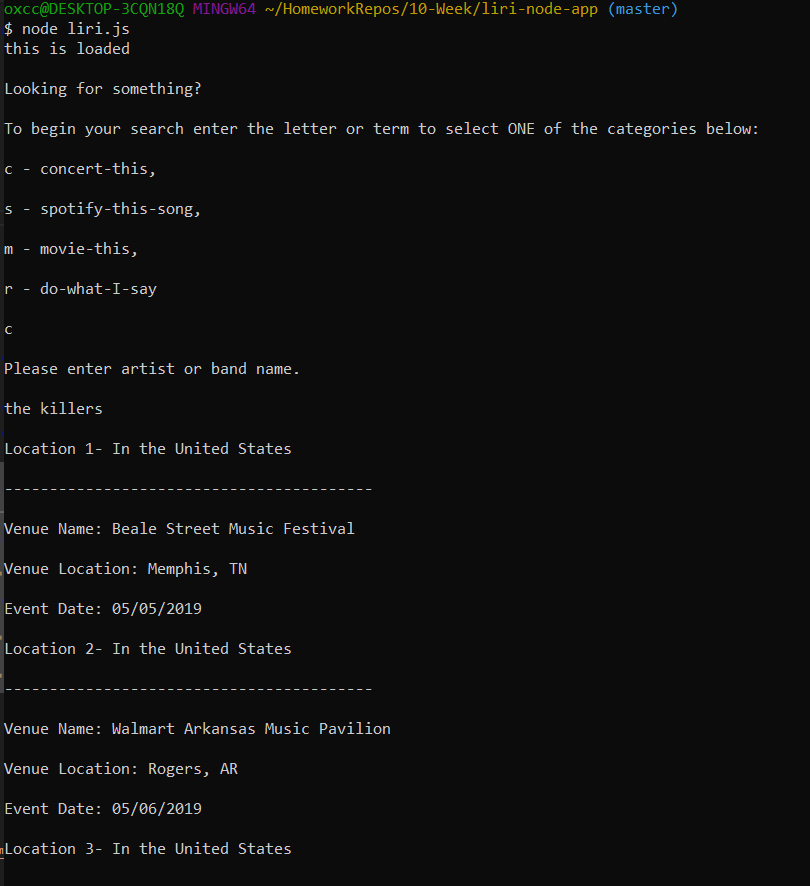
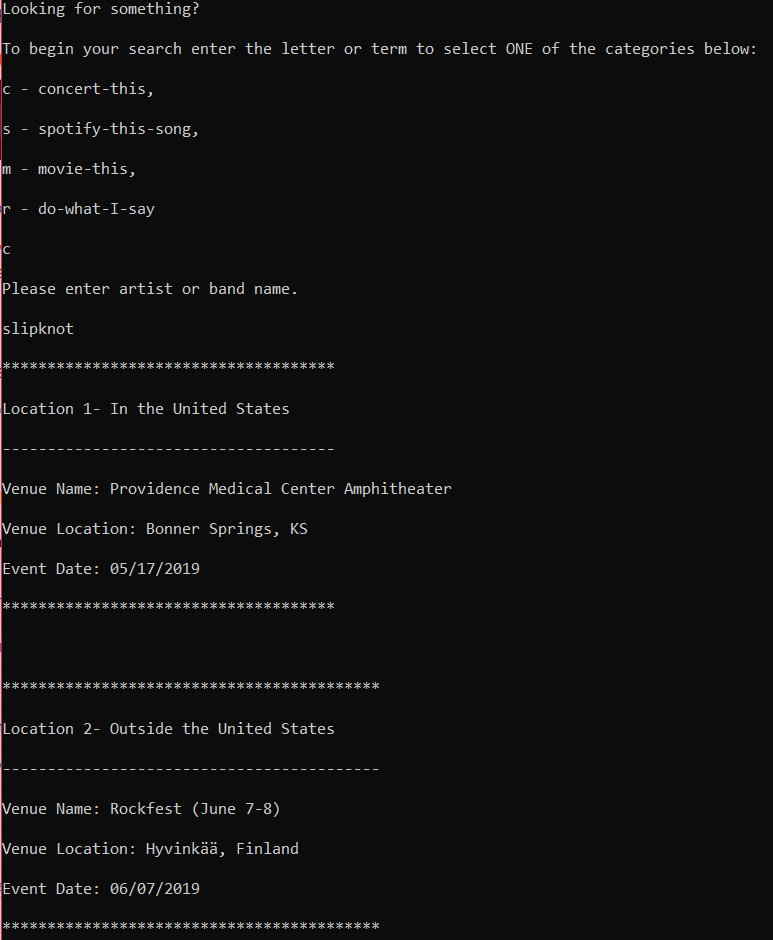
Fixed Spotify issue, completing the readme to explain process.

Changed region(s): [[0.0, 0.0914, 0.9314, 1.0], [0.0, 0.0, 0.9625, 0.0609]]

diff --git a/liri.js b/liri.js
@@ -160,12 +160,14 @@ function songs(song) {
 
         var results = data.tracks.items[0];
 
-        cl(`\n---------------------------------`);
-        cl(`Artist: ${results.artists[0].name}`);
-        cl(`Song: ${song.charAt(0).toUpperCase() + song.slice(1)}`);
-        cl(`Preview Link: ${results.preview_url}`);
-        cl(`Album: ${results.album.name}`);
-        cl(`----------------------------------`);
+        cl(`\n=================================
+        \n*********************************
+        \nSong: ${song.charAt(0).toUpperCase() + song.slice(1)}
+        \nArtist: ${results.artists[0].name}
+        \nAlbum: ${results.album.name}
+        \nPreview Link: ${results.preview_url}
+        \n*********************************
+        \n=================================`);
 
     });
 };

diff --git a/README.md b/README.md
@@ -1,2 +1,68 @@
 # liri-node-app
 LIRI as in a spoof of Apple's SIRI. Stands for Language Interpretation and Recognition Interface. It is a node app that takes parameters via cmd line and returns data to you.
+
+# URL
+
+#Short overview
+
+The LIRI app is powered by the use of the Spotify, OMDB and Bandsintown APIs. Their node packages were installed and requests to them are done through the use of the Axios package.
+
+#Instructions
+Using the Bash terminal of choice run the liri.js 
+
+You will be prompted with the following
+
+<!-- Looking for something?
+
+To begin your search enter the letter or term to select ONE of the categories below:
+
+c - concert-this,
+
+s - spotify-this-song,
+
+m - movie-this,
+
+r - do-what-I-say 
+
+c
+
+Please enter artist or band name.
+
+slipknot
+
+*************************************
+
+Location 1- In the United States
+
+-------------------------------------
+
+Venue Name: Providence Medical Center Amphitheater
+
+Venue Location: Bonner Springs, KS
+
+Event Date: 05/17/2019
+
+*************************************
+
+
+
+******************************************
+
+Location 2- Outside the United States
+
+------------------------------------------
+
+Venue Name: Rockfest (June 7-8)
+
+Venue Location: Hyvinkää, Finland
+
+Event Date: 06/07/2019
+
+******************************************
+-->
+
+# Screenshots
+
+
+
+
